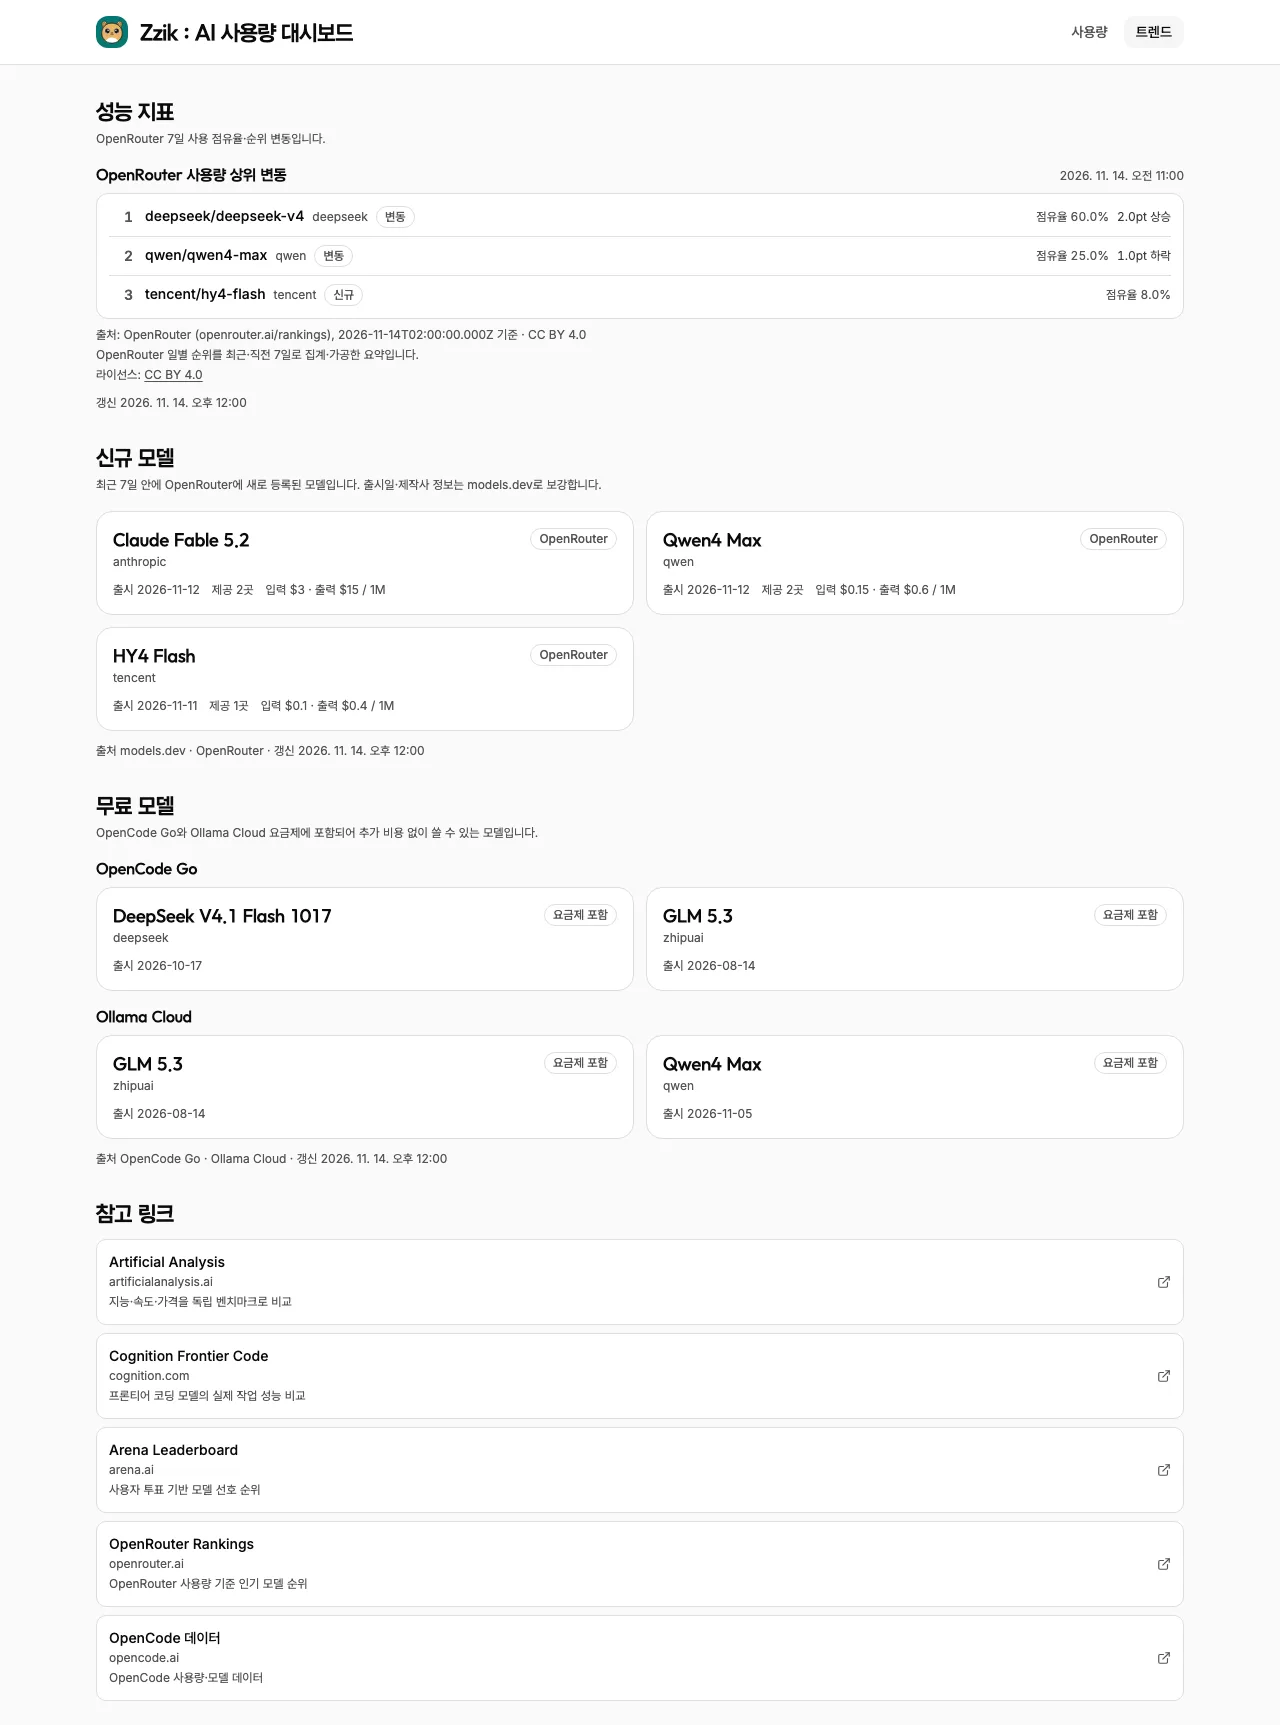
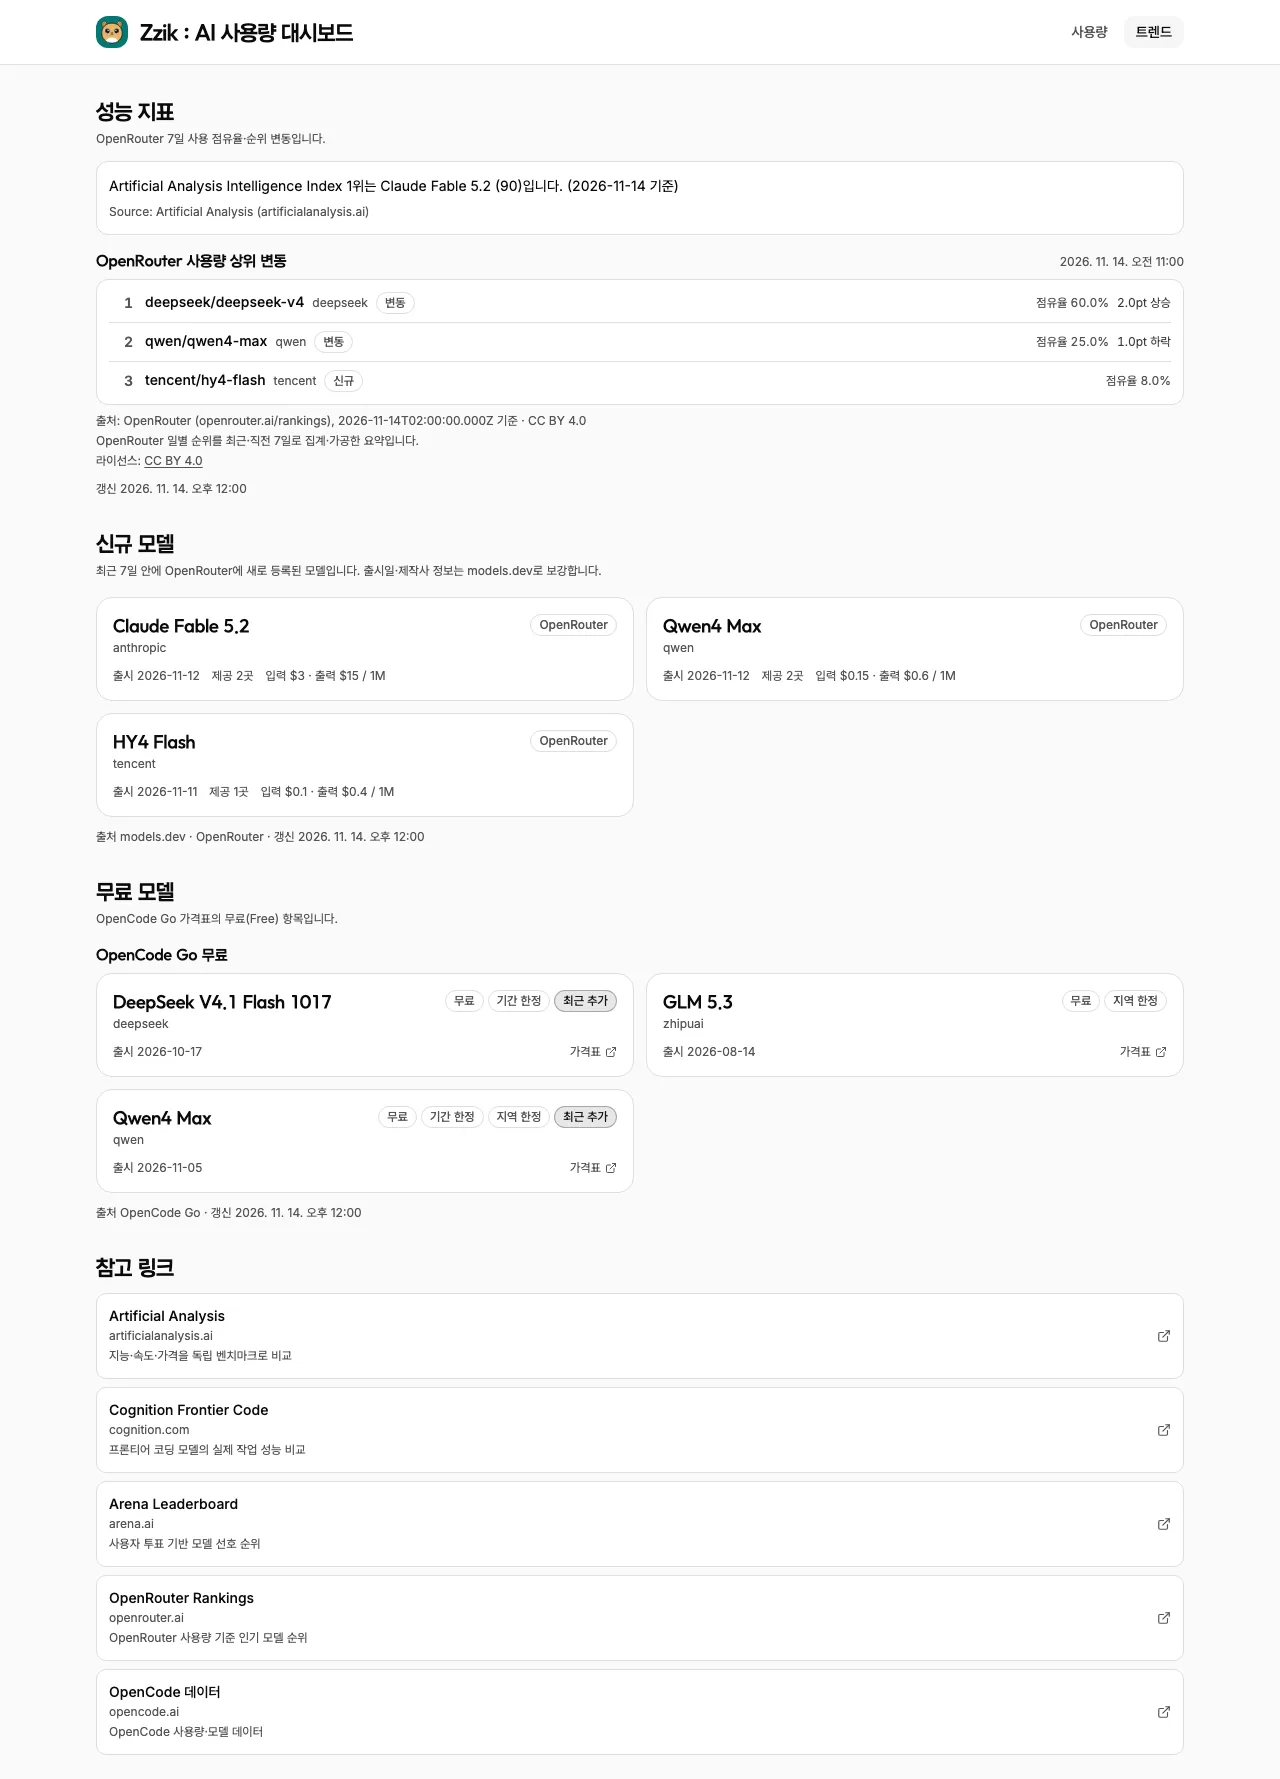
fix: 통합 트렌드 fixture·plan cron 회귀 정리 (Refs #116)

diff --git a/src/infra/trend/fixture-trend-data.ts b/src/infra/trend/fixture-trend-data.ts
@@ -12,6 +12,7 @@ import {
   TREND_SCHEMA_VERSION,
 } from '@shared/trend-contract'
 import type { TrendSectionPayload } from '@shared/trend-contract'
+import { t } from '@shared/messages'
 
 const GENERATED_AT = '2026-11-14T03:00:00.000Z'
 const SOURCE_AT = '2026-11-14T02:00:00.000Z'
@@ -52,30 +53,28 @@ const FREE_MODELS = {
   schemaVersion: TREND_SCHEMA_VERSION,
   generatedAt: GENERATED_AT,
   rule: TREND_FREE_MODELS_RULE,
-  sources: [
-    { id: 'go-models', fetchedAt: GENERATED_AT, status: 'ok' },
-    { id: 'ollama-tags', fetchedAt: GENERATED_AT, status: 'ok' },
-  ],
+  sources: [{ id: 'go-models', fetchedAt: GENERATED_AT, status: 'ok' }],
   items: [
     {
       id: 'deepseek/deepseek-v4.1-flash-1017', name: 'DeepSeek V4.1 Flash 1017', creator: 'deepseek',
       releaseDate: '2026-10-17', precision: 'day', price: { input: 0, output: 0 },
-      free: true, openWeights: true, providers: ['opencode-go'], links: {}, freeKind: 'opencode-go',
+      free: true, openWeights: true, providers: ['go-models'],
+      links: { opencode: 'https://opencode.ai/docs/console/go/#pricing' },
+      freeKind: 'opencode-go', recentlyAdded: true, limitedTime: true, limitedRegions: false,
     },
     {
       id: 'zhipuai/glm-5.3', name: 'GLM 5.3', creator: 'zhipuai',
       releaseDate: '2026-08-14', precision: 'day', price: { input: 0, output: 0 },
-      free: true, openWeights: true, providers: ['opencode-go'], links: {}, freeKind: 'opencode-go',
-    },
-    {
-      id: 'zhipuai/glm-5.3', name: 'GLM 5.3', creator: 'zhipuai',
-      releaseDate: '2026-08-14', precision: 'day', price: { input: 0, output: 0 },
-      free: true, openWeights: true, providers: ['ollama-cloud'], links: {}, freeKind: 'ollama-cloud',
+      free: true, openWeights: true, providers: ['go-models'],
+      links: { opencode: 'https://opencode.ai/docs/console/go/#pricing' },
+      freeKind: 'opencode-go', recentlyAdded: false, limitedTime: false, limitedRegions: true,
     },
     {
       id: 'qwen/qwen4-max', name: 'Qwen4 Max', creator: 'qwen',
       releaseDate: '2026-11-05', precision: 'day', price: { input: 0, output: 0 },
-      free: true, openWeights: true, providers: ['ollama-cloud'], links: {}, freeKind: 'ollama-cloud',
+      free: true, openWeights: true, providers: ['go-models'],
+      links: { opencode: 'https://opencode.ai/docs/console/go/#pricing' },
+      freeKind: 'opencode-go', recentlyAdded: true, limitedTime: true, limitedRegions: true,
     },
   ],
 } satisfies TrendSectionPayload
@@ -87,6 +86,7 @@ const METRICS = {
   rule: TREND_METRICS_RULE,
   sources: [{ id: 'openrouter-rankings', fetchedAt: GENERATED_AT, status: 'ok' }],
   items: [],
+  aaCitation: t('trend.fixture.aaCitation'),
   blocks: [{
     id: 'or-usage', status: 'ok', asOf: SOURCE_AT, asOfKind: 'source',
     entries: [

diff --git a/tests/ui/trend/FixtureTrend.test.tsx b/tests/ui/trend/FixtureTrend.test.tsx
@@ -33,15 +33,21 @@ describe('Given /trend?fixture=normal', () => {
     expect(await screen.findAllByTestId('trend-metrics-entry')).toHaveLength(3)
     const metrics = within(screen.getByTestId('trend-metrics'))
     expect(metrics.queryByText('Artificial Analysis Intelligence Index')).toBeNull()
+    expect(metrics.getByTestId('trend-metrics-aa-citation').textContent).toContain('Artificial Analysis Intelligence Index 1위는 Claude Fable 5.2')
+    expect(metrics.getByRole('link', { name: /Artificial Analysis/ }).getAttribute('href')).toBe('https://artificialanalysis.ai/leaderboards/models')
 
     expect(await screen.findAllByTestId('trend-new-model')).toHaveLength(3)
     const newest = within(screen.getByTestId('trend-new-models'))
     expect(newest.getAllByText('OpenRouter').length).toBeGreaterThan(0)
 
-    expect(await screen.findAllByTestId('trend-free-model')).toHaveLength(4)
+    expect(await screen.findAllByTestId('trend-free-model')).toHaveLength(3)
     const free = within(screen.getByTestId('trend-free-models'))
-    expect(free.getByRole('heading', { name: 'OpenCode Go' })).toBeTruthy()
-    expect(free.getByRole('heading', { name: 'Ollama Cloud' })).toBeTruthy()
+    expect(free.getByRole('heading', { name: 'OpenCode Go 무료' })).toBeTruthy()
+    expect(free.queryByRole('heading', { name: 'Ollama Cloud' })).toBeNull()
+    expect(free.getAllByText('기간 한정')).toHaveLength(2)
+    expect(free.getAllByText('지역 한정')).toHaveLength(2)
+    expect(free.getAllByText('최근 추가')).toHaveLength(2)
+    expect(free.getAllByRole('link', { name: '가격표' })).toHaveLength(3)
 
     const links = screen.getByRole('list', { name: '트렌드 참고 링크' })
     expect(within(links).getAllByRole('link')).toHaveLength(5)

diff --git a/tests/worker/plan.workerd.test.ts b/tests/worker/plan.workerd.test.ts
@@ -44,9 +44,11 @@ describe('Given the actual Worker trend cron with plan-models in workerd', () =>
             if (url.includes('models.dev')) return json(catalog);
             if (url.includes('opencode.ai/inference/go/v1/models')) {
               goCalls += 1;
-              if (goCalls === 3) return new Response('', { status: 500 });
+              // free-models와 plan-models가 각각 한 번씩 호출하므로 cron 회차 = ceil(goCalls / 2).
+              const phase = Math.ceil(goCalls / 2);
+              if (phase === 3) return new Response('', { status: 500 });
               const data = [{ id: 'deepseek-v4.1-flash', canonical_id: 'deepseek/deepseek-v4.1-flash-1017', name: 'DeepSeek V4.1 Flash 1017' }];
-              if (goCalls >= 2) data.push({ id: 'new-go-model', canonical_id: 'new/go-model', name: 'New Go Model' });
+              if (phase >= 2) data.push({ id: 'new-go-model', canonical_id: 'new/go-model', name: 'New Go Model' });
               return json({ object: 'list', data });
             }
             if (url.includes('ollama.com/api/tags')) return json({ models: [{ name: 'glm-5.3', size: 0 }] });

diff --git a/shared/messages/ko.ts b/shared/messages/ko.ts
@@ -12,6 +12,7 @@ export const ko = {
   'nav.trend': '트렌드',
   'trend.metrics.title': '성능 지표',
   'trend.metrics.aa.source': 'Source: Artificial Analysis (artificialanalysis.ai)',
+  'trend.fixture.aaCitation': 'Artificial Analysis Intelligence Index 1위는 Claude Fable 5.2 (90)입니다. (2026-11-14 기준)',
   'trend.metrics.rule': 'OpenRouter 7일 사용 점유율·순위 변동입니다.',
   'trend.metrics.loading': '성능 지표를 불러오는 중…',
   'trend.metrics.error': '성능 지표를 불러오지 못했습니다.',
@@ -58,7 +59,6 @@ export const ko = {
   'trend.freeModels.link.pricing': '가격표',
   'trend.freeModels.loading': '무료 모델을 불러오는 중…',
   'trend.freeModels.error': '무료 모델을 불러오지 못했습니다.',
-  'trend.freeModels.empty': '현재 제공 중인 무료 모델이 없습니다.',
   'trend.freeModels.retry': '다시 시도',
   'trend.freeModels.source': '출처 {sources} · 갱신 {time}',
   'trend.freeModels.release': '출시 {date}',

diff --git a/tests/src/infra/trend/fixture-trend-gateway.test.ts b/tests/src/infra/trend/fixture-trend-gateway.test.ts
@@ -25,7 +25,7 @@ describe('Given the DEV trend fixture gateway', () => {
     expect(newest.items.every((item) => item.registeredIn?.includes('openrouter'))).toBe(true)
 
     const free = TREND_FIXTURE_SECTIONS['free-models']
-    expect(new Set(free.items.map((item) => item.freeKind))).toEqual(new Set(['opencode-go', 'ollama-cloud']))
+    expect(new Set(free.items.map((item) => item.freeKind))).toEqual(new Set(['opencode-go']))
     expect(free.items.every((item) => item.free)).toBe(true)
 
     const plan = TREND_FIXTURE_SECTIONS['plan-models']
